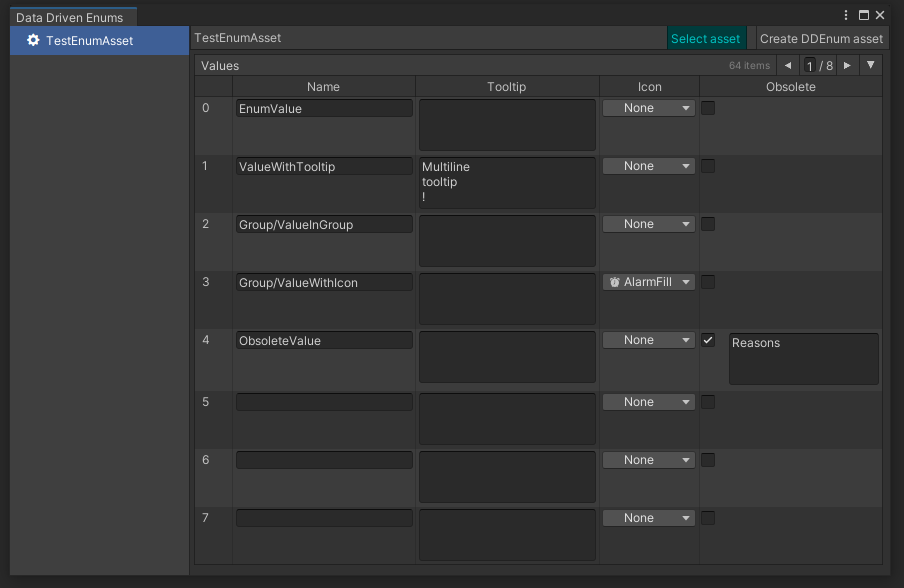
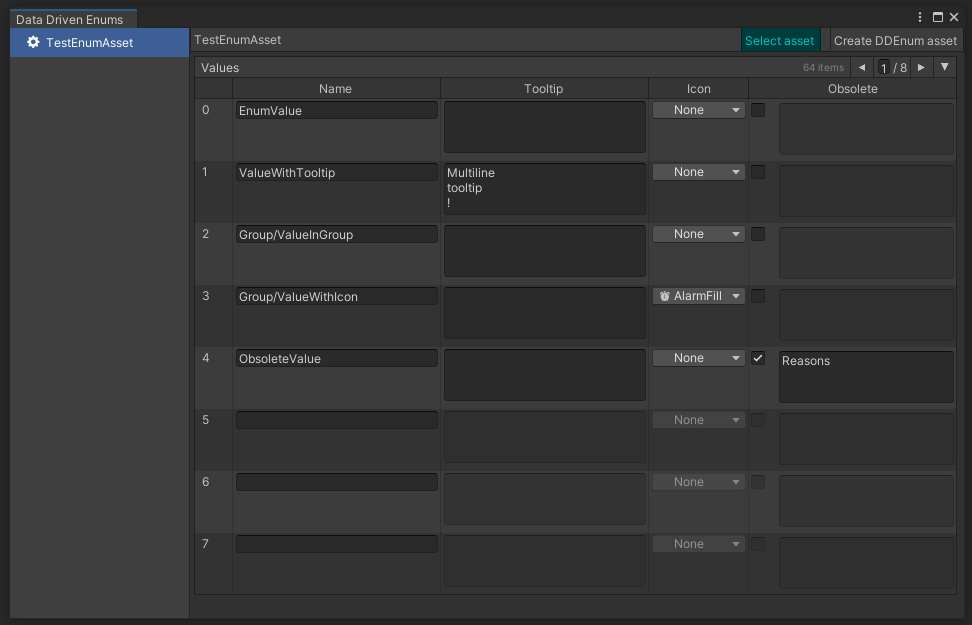
Update

diff --git a/DDEnum/DDEnumAssetBase.cs b/DDEnum/DDEnumAssetBase.cs
@@ -23,6 +23,7 @@ namespace DDEnum
 			public string Name => m_name;
 			
 			[SerializeField, MultiLineProperty, OnValueChanged(nameof(ClearMessage))]
+			[EnableIf(nameof(m_name))]
 			private string m_tooltip;
 			public string Tooltip => m_tooltip;
 
@@ -64,20 +65,24 @@ namespace DDEnum
 
 			[SerializeField] 
 			[TableColumnWidth(100, false)]
+			[EnableIf(nameof(m_name))]
 			private SdfIconType m_icon = SdfIconType.None;
 			public SdfIconType Icon => m_icon;
 			
 			[SerializeField, OnValueChanged(nameof(ClearMessage))]
 			[HorizontalGroup("Obsolete", width:25f)]
 			[HideLabel]
+			[EnableIf(nameof(m_name))]
 			private bool m_obsolete = false;
 			public bool Obsolete => m_obsolete;
 			
-			[SerializeField, MultiLineProperty, ShowIf(nameof(m_obsolete)), OnValueChanged(nameof(ClearMessage))] 
+			[SerializeField, MultiLineProperty, EnableIf(nameof(ShowObsoleteMessage)), OnValueChanged(nameof(ClearMessage))] 
 			[HorizontalGroup("Obsolete")]
 			[HideLabel]
 			private string m_obsoleteMessage;
 			public string ObsoleteMessage => m_obsoleteMessage;
+			
+			private  bool ShowObsoleteMessage => m_obsolete && !string.IsNullOrWhiteSpace(m_name);
 		}
 		
 #if UNITY_EDITOR

diff --git a/README.md b/README.md
@@ -12,7 +12,7 @@ Put `DDEnum` folder into Unity project
 
 You need to create class that inherits frim `DDEnumAssetBase` and 2 structs that inherit from `IDDEnumMask` and `IDDEnumValue`.
 
-Then you need to create new scriptable object asset, where values will be defined, by opening `Tools/Data Driven Enums` and then clicking `Create DDEnum asset` button. This asset will be automatically added to Preloaded Assets in `PlayerSettings`.
+Then you need to create new scriptable object asset, where values will be defined, by opening `Tools/Data Driven Enums` and then clicking `Create DDEnum asset` button. This asset will be automatically added to Preloaded Assets in `PlayerSettings`. You can defne up to 64 values.
 
 ![](Images/EnumWindow.PNG)
 
@@ -21,7 +21,7 @@ Each value with defined name can have:
 - icon
 - info about obsoletion
 
-Defined values will be visible in dropdowns when using `IDDEnumMask` and `IDDEnumValue`
+Defined values will be visible in dropdowns. `IDDEnumValue` behaves like enum and `IDDEnumMask` behaves like enum with `Flags` attribute.
 
 ![](Images/MaskDropdown.png) ![](Images/ValueDropdown.png)
 
